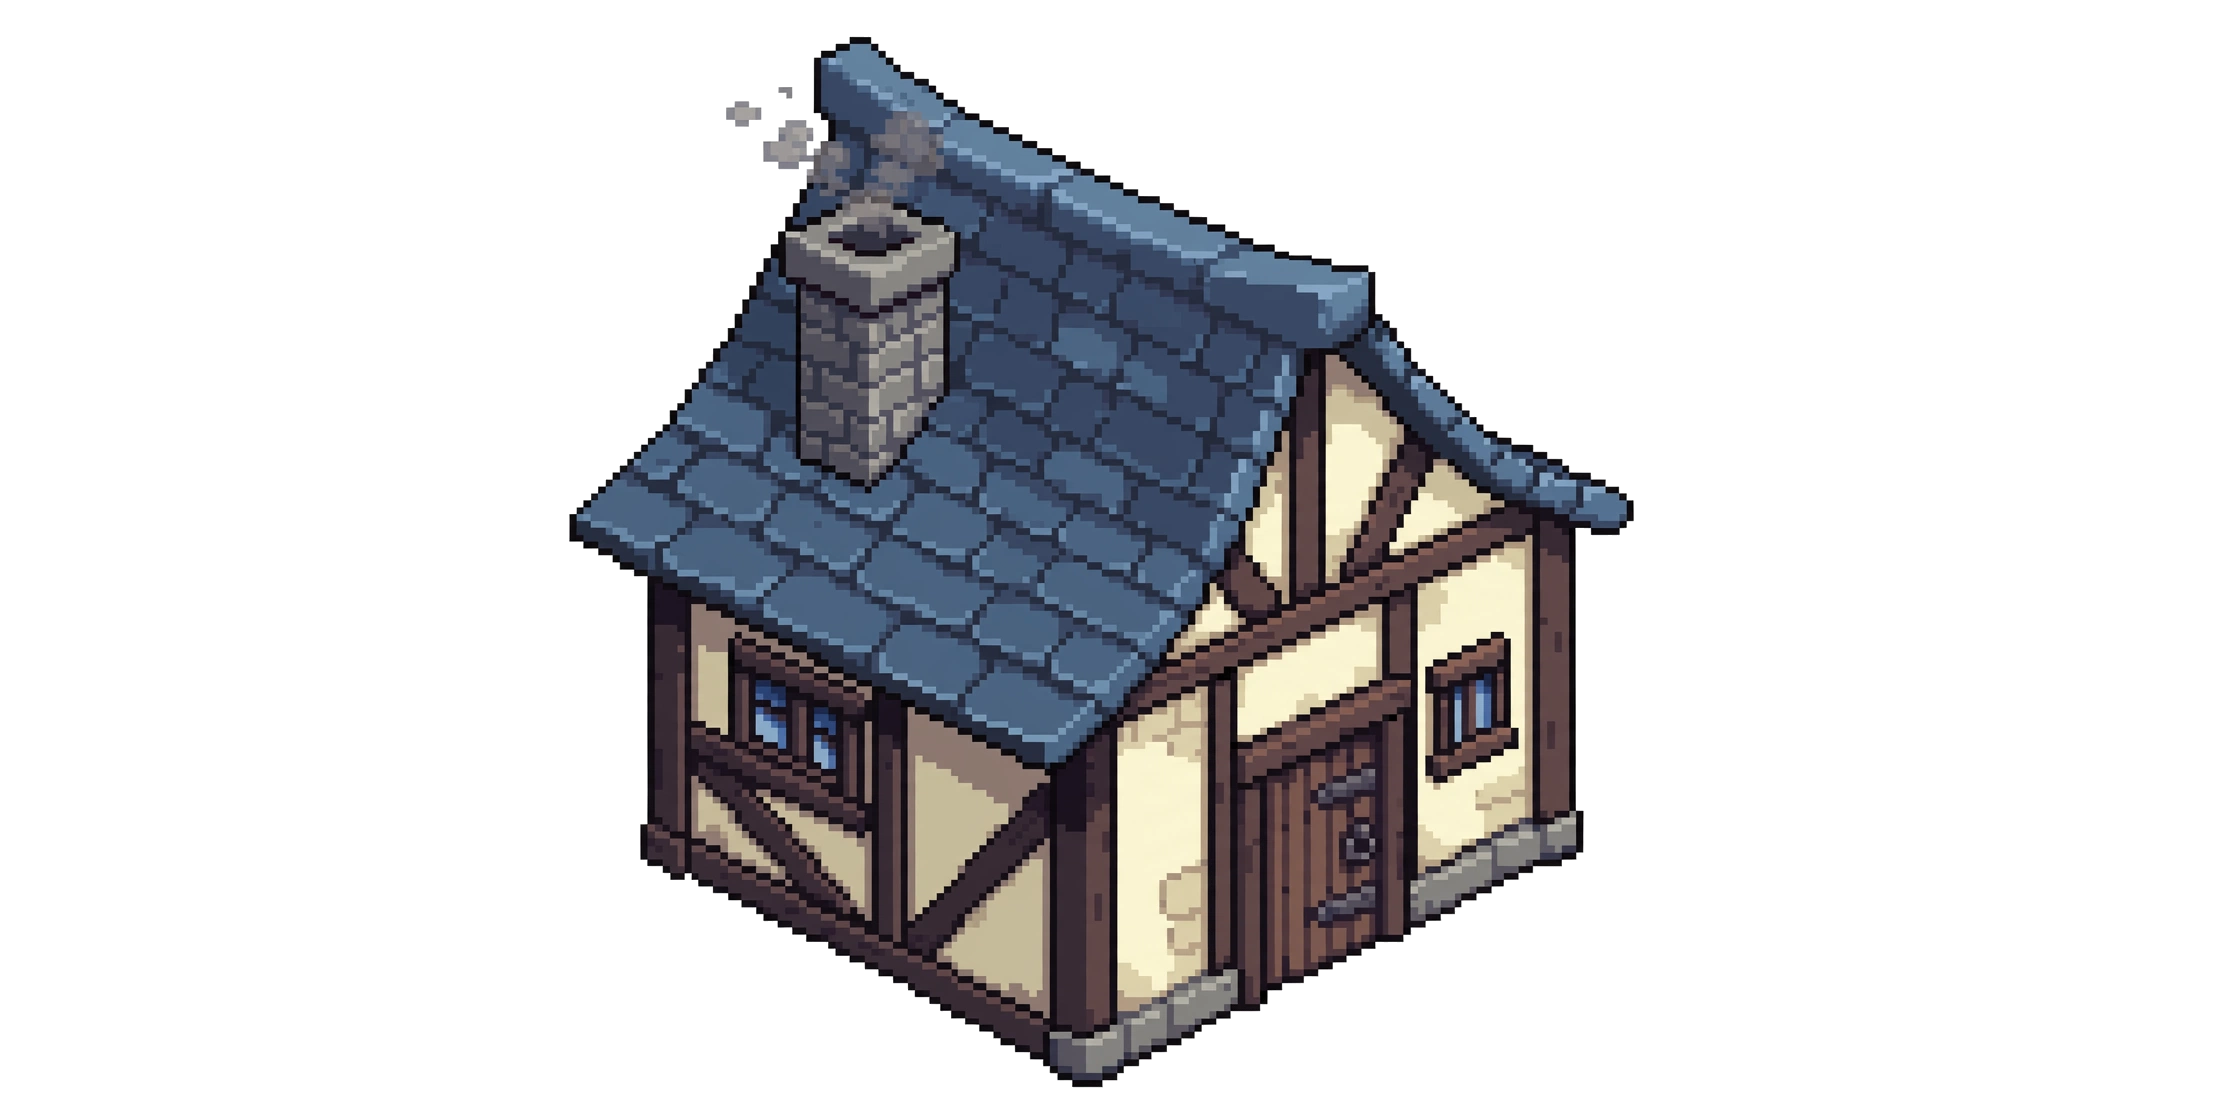
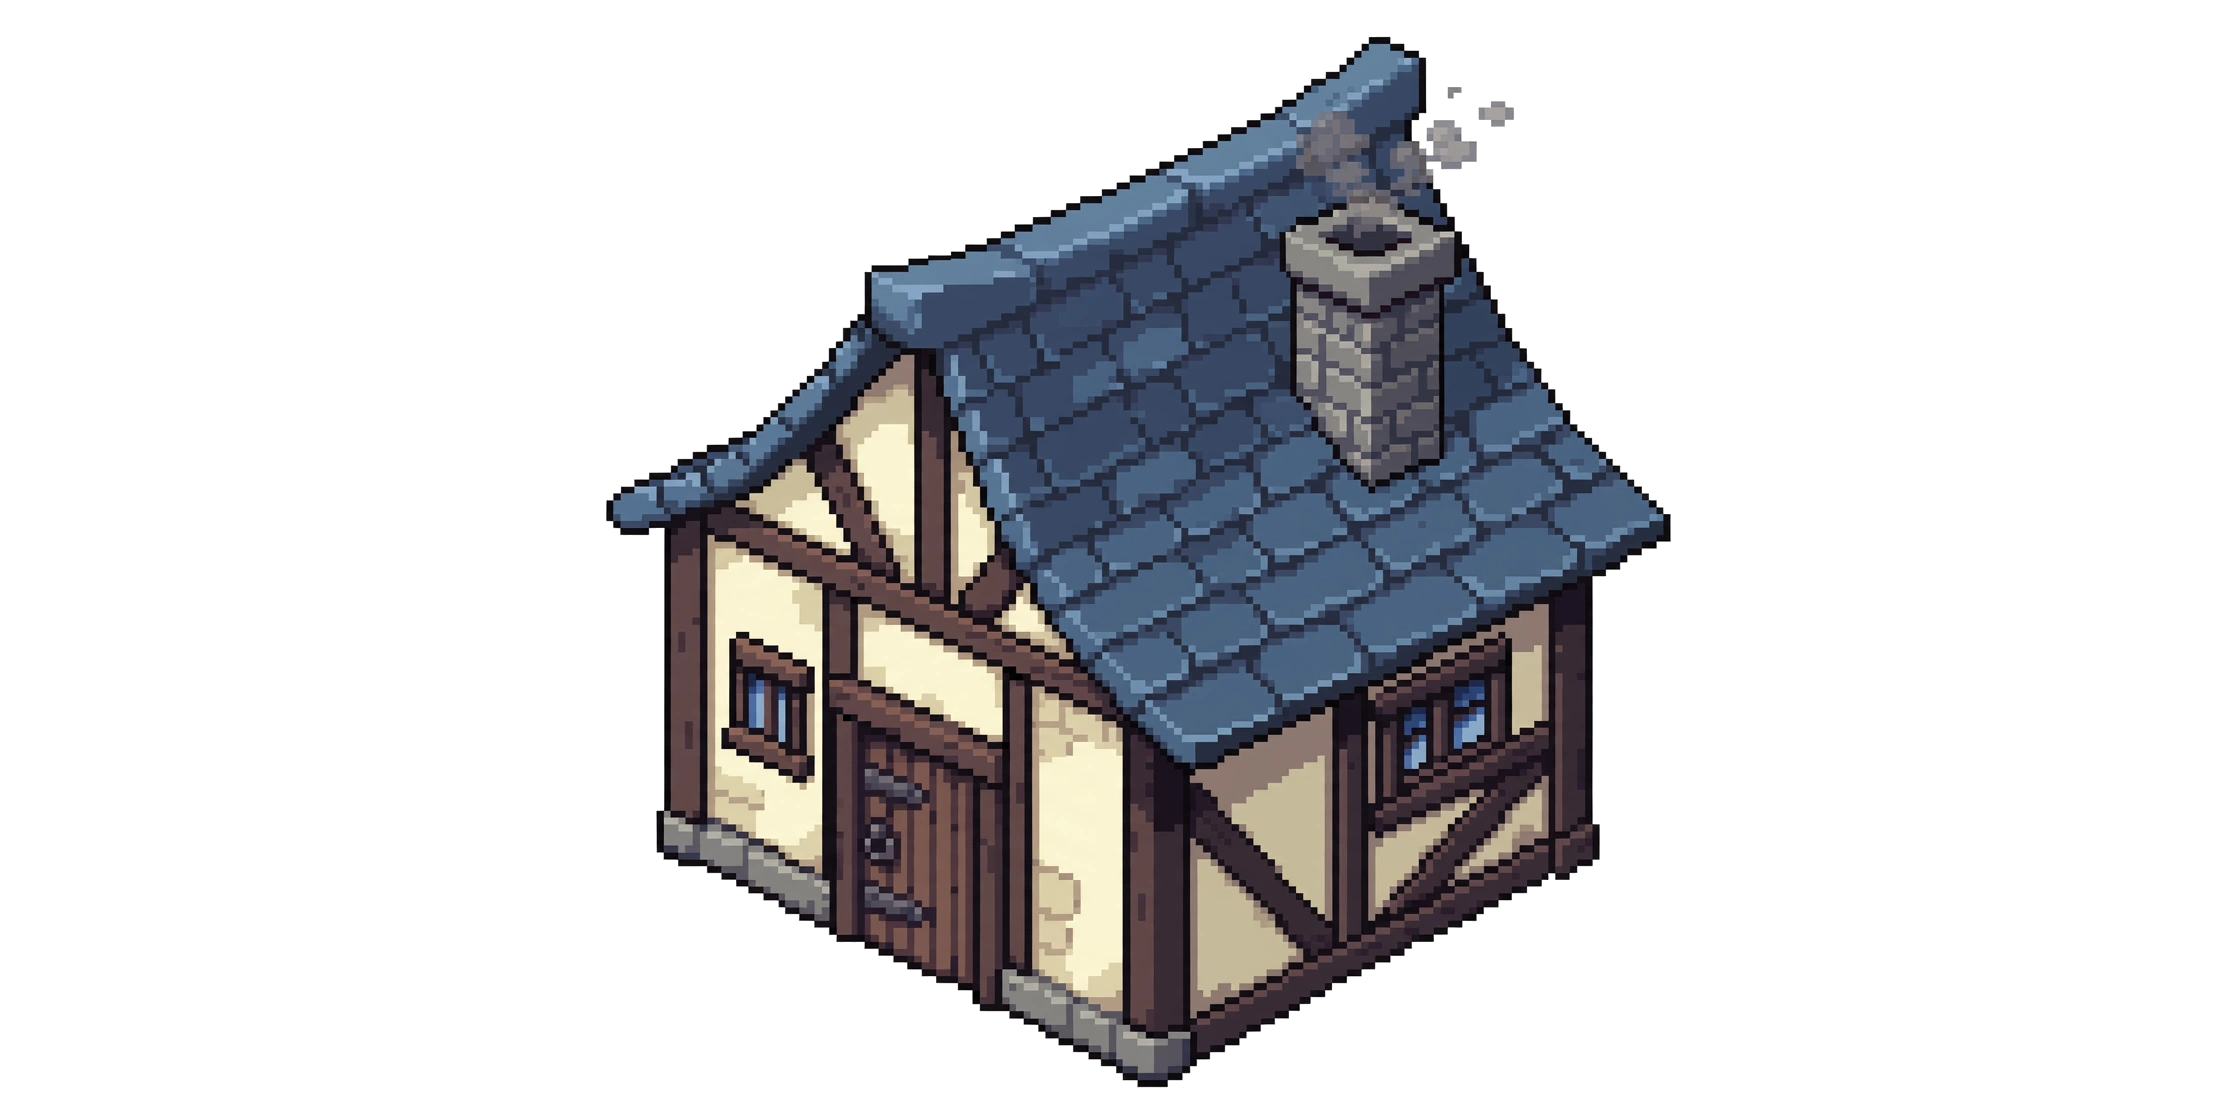
BUILD 689: door/path alignment fix — sprites flipped to south-face doors + shared door geometry
Root cause: the 10 AI building sprites painted doors on the EAST face
while every game system (door triggers, exit spawns, 2D CSS doors,
fallback iso renderer, town plan lanes) has always used the SOUTH face.
Lanes correctly led to the logical door; players saw a door on the
opposite face. Horizontally flipped all 10 sprites so painted doors sit
on the south face, same side as triggers/exits/lanes. Zero logic change.

- New src/game/doorGeometry.ts: single source of truth for door
  positions (fieldDoorPosition/newHouseDoorPosition extracted from
  App.tsx); townPlan.ts and App.tsx both import it.
- simulate.ts: 73 new assertions — plan doors == live door formulas on
  all 18 Mosslight buildings, every door has a lane endpoint within
  2.0u from the south side, every exit lands within 4u of a lane.
- Verified: 55,488 sim pass, tsc 3 pre-existing errors only,
  14/14 Playwright ground truth, in-game screenshots show lanes
  leading to visible doors on 2 buildings.

Changed region(s): [[0.25, 0.0312, 0.75, 0.9688]]

diff --git a/index.html b/index.html
@@ -1,1 +1,1 @@
-<!doctype html><html lang="en"><head><!-- BUILD309-VIEWPORT-FIX-MARKER --><meta charset="UTF-8"><meta name="viewport" content="width=device-width, initial-scale=1.0, maximum-scale=1.0, user-scalable=no"><meta name="theme-color" content="#17362e"><link rel="icon" type="image/svg+xml" href="favicon.svg"><meta name="description" content="Explore Mosslight Crossing in the Adventure Game field journal."><title>Adventure Game — Mosslight Crossing</title></head><body><div id="root"></div><script>window.__AG_BUILD="688";(function(){var shown=false;function code(m){var h=0,s=window.__AG_BUILD+"|"+m;for(var i=0;i<s.length;i++){h=(Math.imul(h,31)+s.charCodeAt(i))|0;}return "AG"+window.__AG_BUILD+"-"+(h>>>0).toString(36).toUpperCase().padStart(6,"0").slice(-5);}function show(m,k){if(shown||window.__agBooted)return;shown=true;var d=document.createElement("div");d.id="ag-boot-crash";var p=document.createElement("div");p.className="ag-boot-panel";var t=document.createElement("div");t.className="ag-boot-title";t.textContent="\u26a0 GAME FAILED TO START";var c=document.createElement("div");c.className="ag-boot-code";c.textContent=code(String(m));var g=document.createElement("div");g.className="ag-boot-msg";g.textContent=String(m).slice(0,300);var n=document.createElement("div");n.className="ag-boot-kind";n.textContent=k;var b=document.createElement("button");b.textContent="Reload game";b.onclick=function(){location.reload();};p.appendChild(t);p.appendChild(c);p.appendChild(g);p.appendChild(n);p.appendChild(b);d.appendChild(p);document.body.appendChild(d);}window.addEventListener("error",function(e){if(e.target&&e.target!==window)return;show(e.message||"script error","boot error");},true);window.addEventListener("unhandledrejection",function(e){var r=e.reason;show((r&&(r.message||r))||"rejection","boot rejection");});setTimeout(function(){if(!window.__agBooted)show("The game did not finish loading in time.","load timeout");},20000);})();</script><style>#ag-boot-crash{position:fixed;inset:0;z-index:99999;background:#0d1a16;display:flex;align-items:center;justify-content:center;padding:24px}#ag-boot-crash .ag-boot-panel{max-width:420px;width:100%;background:#14261f;border:1px solid #2c4a3e;border-radius:12px;padding:24px;text-align:center;color:#e8f0e9;font-family:system-ui,sans-serif}#ag-boot-crash .ag-boot-title{font-size:20px;font-weight:800;letter-spacing:.5px}#ag-boot-crash .ag-boot-code{font-family:monospace;font-size:22px;color:#ffd75e;margin:12px 0;letter-spacing:1px}#ag-boot-crash .ag-boot-msg{font-size:13px;color:#b9c9bd;word-break:break-word}#ag-boot-crash .ag-boot-kind{font-size:11px;color:#7d8f83;margin-top:8px;text-transform:uppercase;letter-spacing:1px}#ag-boot-crash button{margin-top:16px;background:#e8a33d;border:0;border-radius:8px;padding:10px 22px;font-size:15px;font-weight:700;color:#231603;cursor:pointer}</style><script type="module" src="/src/main.tsx"></script></body></html>
+<!doctype html><html lang="en"><head><!-- BUILD309-VIEWPORT-FIX-MARKER --><meta charset="UTF-8"><meta name="viewport" content="width=device-width, initial-scale=1.0, maximum-scale=1.0, user-scalable=no"><meta name="theme-color" content="#17362e"><link rel="icon" type="image/svg+xml" href="favicon.svg"><meta name="description" content="Explore Mosslight Crossing in the Adventure Game field journal."><title>Adventure Game — Mosslight Crossing</title></head><body><div id="root"></div><script>window.__AG_BUILD="689";(function(){var shown=false;function code(m){var h=0,s=window.__AG_BUILD+"|"+m;for(var i=0;i<s.length;i++){h=(Math.imul(h,31)+s.charCodeAt(i))|0;}return "AG"+window.__AG_BUILD+"-"+(h>>>0).toString(36).toUpperCase().padStart(6,"0").slice(-5);}function show(m,k){if(shown||window.__agBooted)return;shown=true;var d=document.createElement("div");d.id="ag-boot-crash";var p=document.createElement("div");p.className="ag-boot-panel";var t=document.createElement("div");t.className="ag-boot-title";t.textContent="\u26a0 GAME FAILED TO START";var c=document.createElement("div");c.className="ag-boot-code";c.textContent=code(String(m));var g=document.createElement("div");g.className="ag-boot-msg";g.textContent=String(m).slice(0,300);var n=document.createElement("div");n.className="ag-boot-kind";n.textContent=k;var b=document.createElement("button");b.textContent="Reload game";b.onclick=function(){location.reload();};p.appendChild(t);p.appendChild(c);p.appendChild(g);p.appendChild(n);p.appendChild(b);d.appendChild(p);document.body.appendChild(d);}window.addEventListener("error",function(e){if(e.target&&e.target!==window)return;show(e.message||"script error","boot error");},true);window.addEventListener("unhandledrejection",function(e){var r=e.reason;show((r&&(r.message||r))||"rejection","boot rejection");});setTimeout(function(){if(!window.__agBooted)show("The game did not finish loading in time.","load timeout");},20000);})();</script><style>#ag-boot-crash{position:fixed;inset:0;z-index:99999;background:#0d1a16;display:flex;align-items:center;justify-content:center;padding:24px}#ag-boot-crash .ag-boot-panel{max-width:420px;width:100%;background:#14261f;border:1px solid #2c4a3e;border-radius:12px;padding:24px;text-align:center;color:#e8f0e9;font-family:system-ui,sans-serif}#ag-boot-crash .ag-boot-title{font-size:20px;font-weight:800;letter-spacing:.5px}#ag-boot-crash .ag-boot-code{font-family:monospace;font-size:22px;color:#ffd75e;margin:12px 0;letter-spacing:1px}#ag-boot-crash .ag-boot-msg{font-size:13px;color:#b9c9bd;word-break:break-word}#ag-boot-crash .ag-boot-kind{font-size:11px;color:#7d8f83;margin-top:8px;text-transform:uppercase;letter-spacing:1px}#ag-boot-crash button{margin-top:16px;background:#e8a33d;border:0;border-radius:8px;padding:10px 22px;font-size:15px;font-weight:700;color:#231603;cursor:pointer}</style><script type="module" src="/src/main.tsx"></script></body></html>

diff --git a/scripts/simulate.ts b/scripts/simulate.ts
@@ -6893,6 +6893,50 @@ import { inflateSync } from 'node:zlib';
   assert(rigErrors.length === 0, `Town686: rig audit passes on 18 town buildings (${rigErrors.slice(0, 3).join('; ')})`);
 }
 
+// BUILD 689: Door/lane/exit agreement. Root cause of the "path on the opposite
+// side from the door" report: the AI building sprites painted doors on the
+// EAST face while every game system (triggers, exits, lanes, 2D + fallback
+// renderers) uses the SOUTH face — fixed by flipping the sprites. These
+// assertions pin the geometry contract so logic can never drift again:
+//  1. townDoors() == doorGeometry formulas on all 18 rects (single source of
+//     truth; App.tsx re-exports the same module).
+//  2. Every door has a lane endpoint within 2.0u, approaching from the south.
+//  3. Every exit spawn (door.x, bottom+0.7) lands within 4u of a lane point.
+{
+  const { townDoors, mosslightTownPlan } = await import('../src/game/townPlan.js');
+  const { fieldDoorPosition, newHouseDoorPosition, isNewStyleDoorBuilding } =
+    await import('../src/game/doorGeometry.js');
+  const { mosslightCottageRects280, MOSSLIGHT_FIXED_RECTS_280 } = await import('../src/game/settlements.js');
+  const rects = [...MOSSLIGHT_FIXED_RECTS_280.slice(0, 4), ...mosslightCottageRects280(), ...MOSSLIGHT_FIXED_RECTS_280.slice(4)];
+  const names = ['tutorial','guild','chapel','tavern','cottage-1','cottage-2','cottage-3','cottage-4','cottage-5','cottage-6',
+    'town-n1','town-n2','town-s1','town-s2','town-e1','town-e2','town-w1','town-w2'];
+  const doors = townDoors();
+  const plan = mosslightTownPlan();
+  assert(doors.length === 18 && rects.length === 18, 'Town689: 18 doors and 18 rects');
+  for (let i = 0; i < 18; i++) {
+    const r = rects[i];
+    const expected = isNewStyleDoorBuilding(names[i]) ? newHouseDoorPosition(r) : fieldDoorPosition(r);
+    assert(Math.abs(doors[i].x - expected.x) < 1e-9 && Math.abs(doors[i].y - expected.y) < 1e-9,
+      `Town689: plan door == live door formula for ${names[i]}`);
+    let best = Infinity, bestY = 0;
+    for (const ln of plan.lanes) {
+      for (const p of [ln.points[0], ln.points[ln.points.length - 1]]) {
+        const d = Math.hypot(p.x - doors[i].x, p.y - doors[i].y);
+        if (d < best) { best = d; bestY = p.y; }
+      }
+    }
+    assert(best <= 2.0, `Town689: lane reaches ${names[i]} door (dist ${best.toFixed(2)})`);
+    assert(bestY >= doors[i].y - 0.5, `Town689: lane approaches ${names[i]} from the south side`);
+    const ex = { x: doors[i].x, y: Math.min(280 - 6, r.bottom + 0.7) };
+    let bestEx = Infinity;
+    for (const ln of plan.lanes) for (const p of ln.points) {
+      const d = Math.hypot(p.x - ex.x, p.y - ex.y);
+      if (d < bestEx) bestEx = d;
+    }
+    assert(bestEx <= 4.0, `Town689: exit for ${names[i]} lands near a lane (dist ${bestEx.toFixed(2)})`);
+  }
+}
+
 // BUILD 688: Procedural town layout engine — seeded, validated blueprints.
 {
   const { generateTownLayout, validateTownLayout, exportTownLayout, importTownLayout,

diff --git a/src/App.tsx b/src/App.tsx
@@ -122,6 +122,7 @@ const BUILD_NUMBER = (typeof window !== 'undefined' && (window as unknown as { _
 // BUILD 626: Build notes + changelog — brief description per build, shown in
 // main menu so the user can verify updates are live.
 const BUILD_NOTES: Record<string, string> = {
+  '689': 'door/path alignment fix: building sprites flipped so painted doors sit on the south face (same side as triggers, exits, lanes); door geometry now a shared module',
   '688': 'procedural town layout engine: seeded road/district/lot generator + validator (engine-only, no gameplay change)',
   '687': 'town lag fix: A* pathfinding 8x faster (binary heap), cached water grids + decor',
   '686': 'authored Mosslight town: path network to every door, plaza, walls + gatehouse, garden',
@@ -1260,22 +1261,10 @@ let moveHouses: boolean = typeof window !== 'undefined' && new URLSearchParams(w
 // Pure helpers live in ./game/worldEditor.ts (unit-tested in simulate.ts).
 export let editorSolids: EditorSolid[] = [];
 
-function fieldDoorPosition(rect: FieldRect): Point {
-  // Match .field-house::after: left 43%, width 16%, bottom 0, height 44%.
-  return {
-    x: rect.left + (rect.right - rect.left) * 0.51,
-    y: rect.top + (rect.bottom - rect.top) * 0.78,
-  };
-}
-
-function newHouseDoorPosition(rect: FieldRect): Point {
-  // Match .field-house.new-house::after: left 38%, width 24%, bottom 0, height 55%.
-  // Door center x: 38% + 12% = 50%. Door center y: 100% - 27.5% = 72.5%.
-  return {
-    x: rect.left + (rect.right - rect.left) * 0.50,
-    y: rect.top + (rect.bottom - rect.top) * 0.725,
-  };
-}
+// BUILD 689: door position formulas live in src/game/doorGeometry.ts (single
+// source of truth shared with townPlan.ts and simulate.ts). Imported here so
+// existing call sites keep working unchanged.
+import { fieldDoorPosition, newHouseDoorPosition } from './game/doorGeometry';
 
 function doorwayTriggerDims(rect: { left: number; right: number }): { xTol: number } {
   // Hard-lock the trigger to the visual doorway: the CSS door (::after) is

diff --git a/src/game/doorGeometry.ts b/src/game/doorGeometry.ts
@@ -1,0 +1,37 @@
+// Shared door geometry — single source of truth for building door positions.
+// BUILD 689: extracted from App.tsx (fieldDoorPosition / newHouseDoorPosition)
+// so the live game, the town plan (townPlan.ts), and the sim all compute
+// identical door positions. Doors are ALWAYS on the building's south face:
+// the trigger zone, exit spawn, 2D CSS door, fallback iso renderer, and town
+// plan lanes all assume south. Building sprites MUST paint their door on the
+// south face too (the sprite images were horizontally flipped in BUILD 689
+// because the AI art had doors on the east face).
+//
+// Pure module: no React, no App.tsx imports.
+
+export interface DoorRect { left: number; top: number; right: number; bottom: number }
+export interface DoorPoint { x: number; y: number }
+
+/** Standard field-building door: matches .field-house::after (left 43%, width 16%, bottom 0). */
+export function fieldDoorPosition(rect: DoorRect): DoorPoint {
+  return {
+    x: rect.left + (rect.right - rect.left) * 0.51,
+    y: rect.top + (rect.bottom - rect.top) * 0.78,
+  };
+}
+
+/** New-style stone house door (tutorial/guild/chapel/tavern): matches
+ *  .field-house.new-house::after (left 38%, width 24%, bottom 0).
+ *  Door center x: 38% + 12% = 50%. Door center y: 100% - 27.5% = 72.5%. */
+export function newHouseDoorPosition(rect: DoorRect): DoorPoint {
+  return {
+    x: rect.left + (rect.right - rect.left) * 0.50,
+    y: rect.top + (rect.bottom - rect.top) * 0.725,
+  };
+}
+
+/** Which buildings use the new-style door formula. Shared so the town plan
+ *  and the live game can never disagree on the formula choice. */
+export function isNewStyleDoorBuilding(name: string): boolean {
+  return name === 'tutorial' || name === 'guild' || name === 'chapel' || name === 'tavern';
+}

diff --git a/src/game/townPlan.ts b/src/game/townPlan.ts
@@ -12,6 +12,7 @@
 // fence references).
 
 import { MOSSLIGHT_FIXED_RECTS_280, mosslightCottageRects280 } from './settlements';
+import { fieldDoorPosition, newHouseDoorPosition, isNewStyleDoorBuilding } from './doorGeometry';
 
 export interface TownPoint { x: number; y: number }
 export interface TownLane { points: TownPoint[]; width: number }
@@ -26,17 +27,14 @@ export interface TownPlan {
 
 export interface TownDoor { building: string; x: number; y: number }
 
-/** Door positions replicating buildingDoorwaysFor (App.tsx:1246/1254).
+/** Door positions — single source of truth shared with the live game
+ *  (App.tsx buildingDoorwaysFor imports the same functions from
+ *  doorGeometry.ts). Doors are always on the building's south face.
  *  Mains (tutorial/guild/chapel/tavern) use newHouseDoorPosition;
  *  all others use fieldDoorPosition. */
 function doorFor(name: string, rect: { left: number; top: number; right: number; bottom: number }): TownDoor {
-  const w = rect.right - rect.left, h = rect.bottom - rect.top;
-  const isMain = name === 'tutorial' || name === 'guild' || name === 'chapel' || name === 'tavern';
-  return {
-    building: name,
-    x: rect.left + (isMain ? 0.50 : 0.51) * w,
-    y: rect.top + (isMain ? 0.725 : 0.78) * h,
-  };
+  const p = isNewStyleDoorBuilding(name) ? newHouseDoorPosition(rect) : fieldDoorPosition(rect);
+  return { building: name, x: p.x, y: p.y };
 }
 
 /** The 18 fixed building rects (chunk 4,7), 280 field space.
